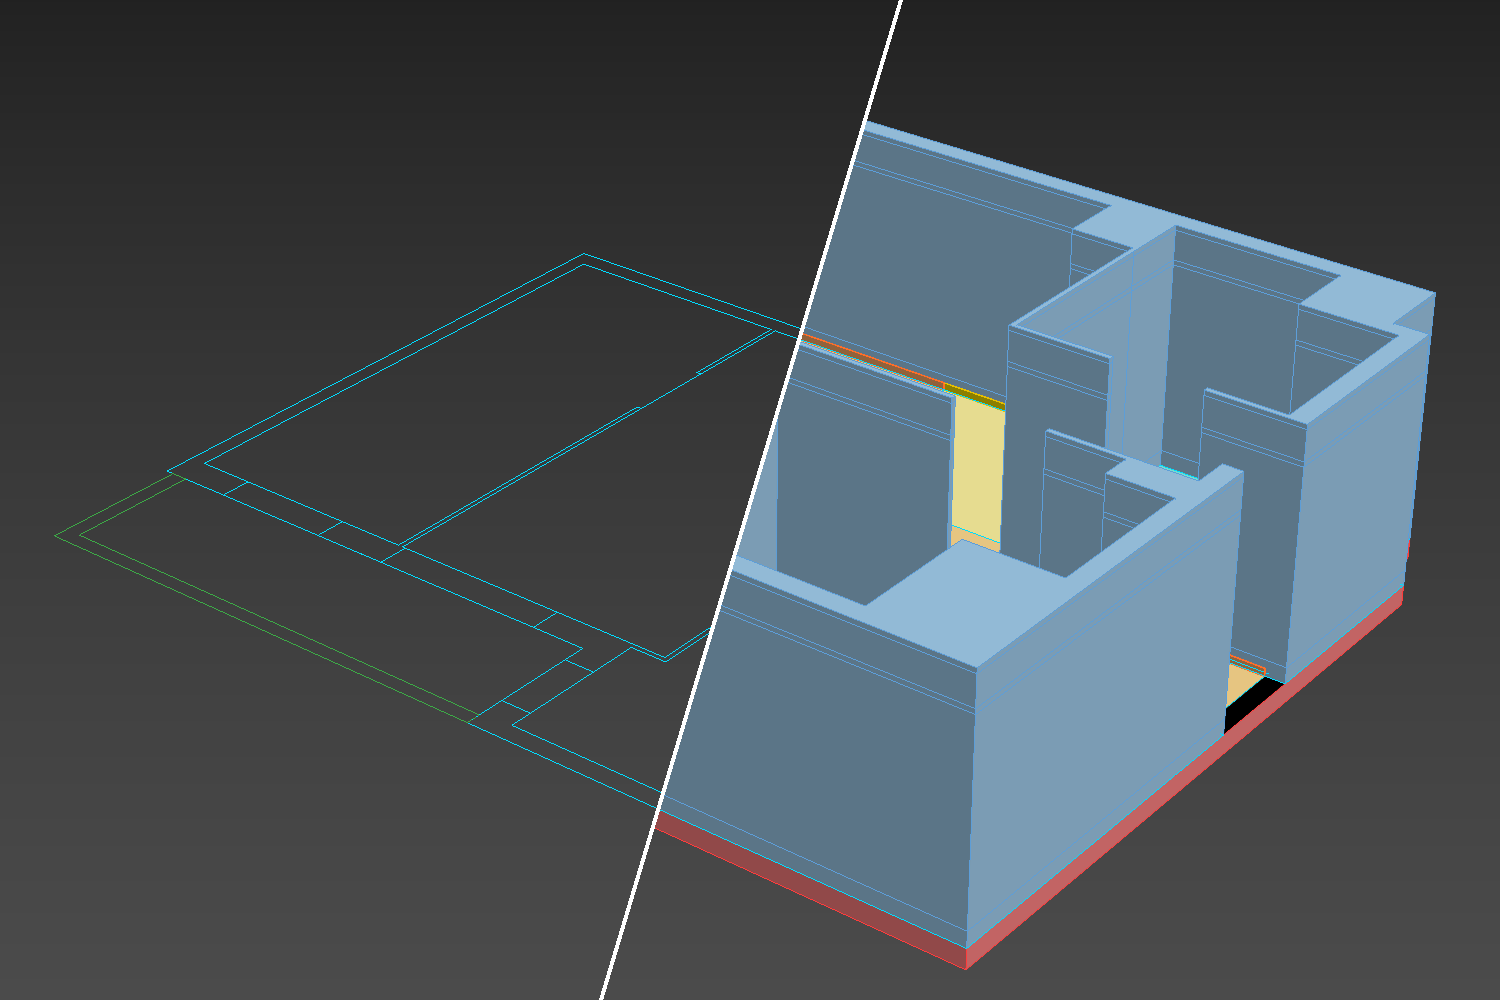
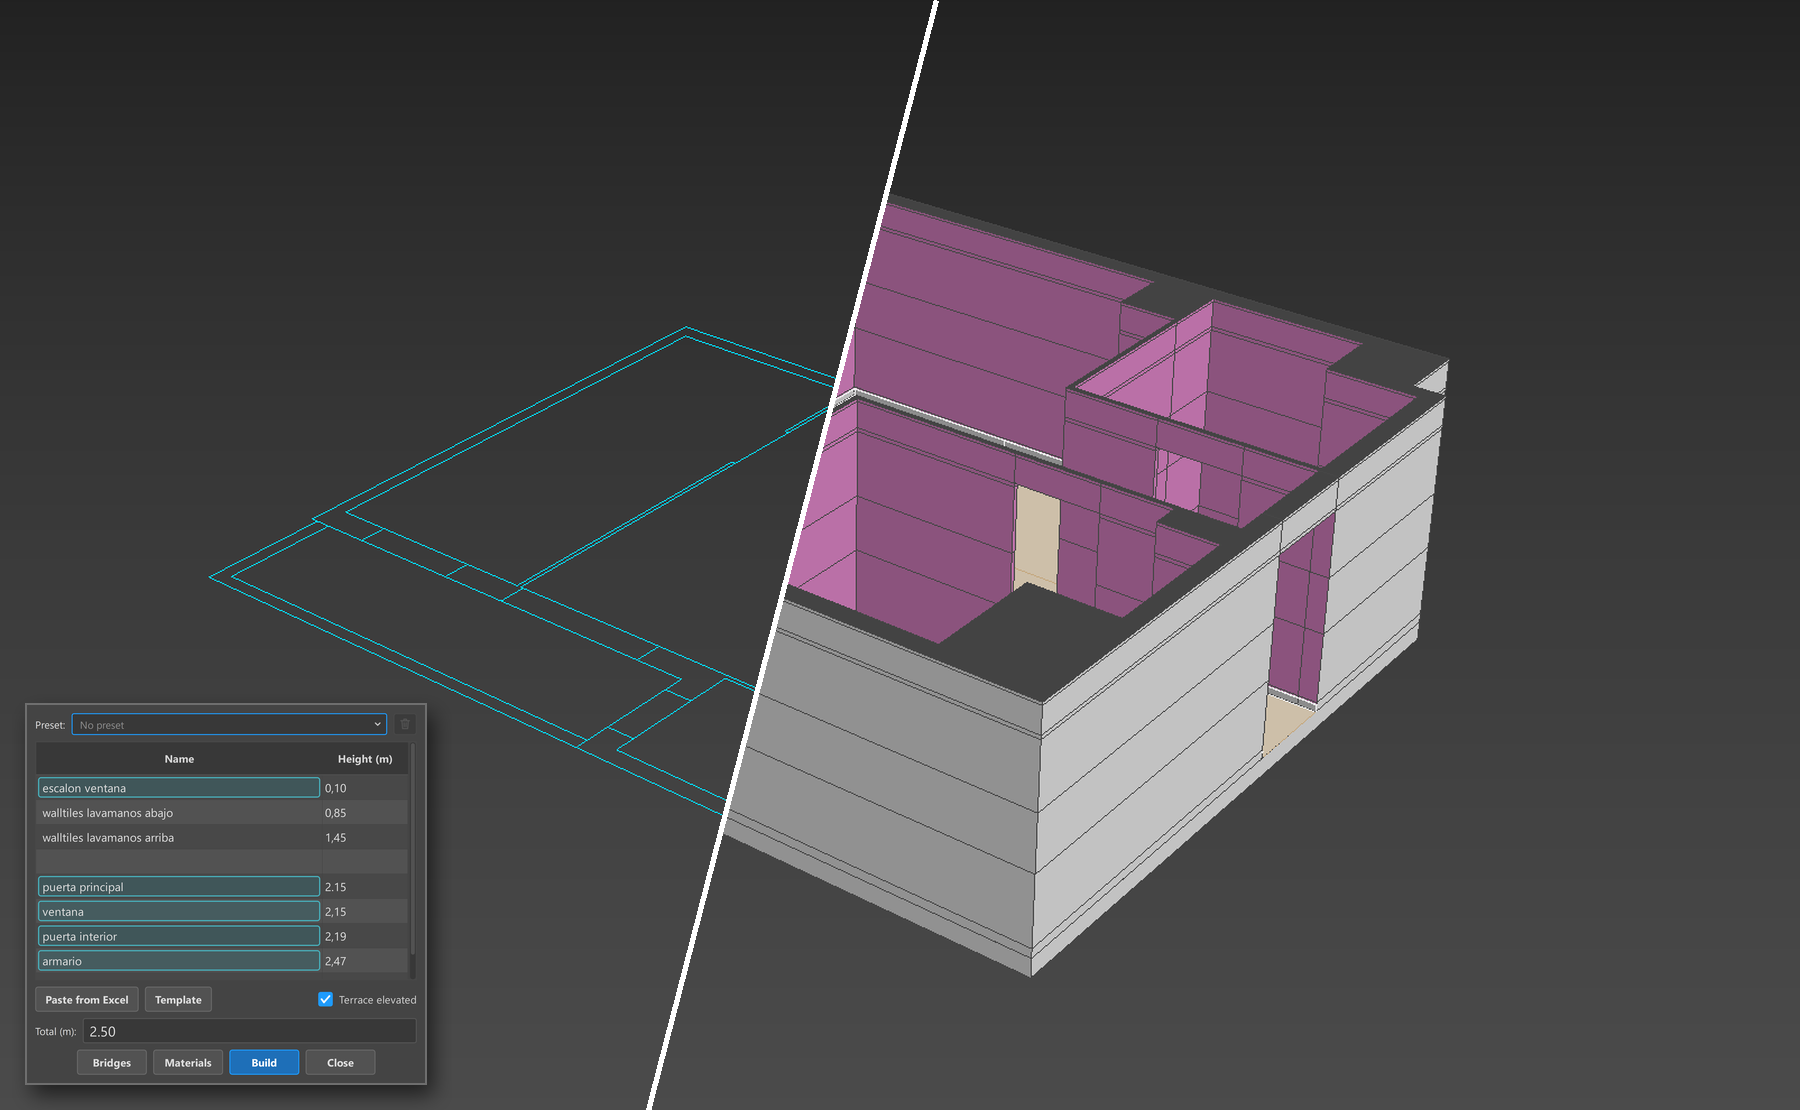
feat(portfolio): Shell Builder con BuildFlat V2 (bridges y materiales) y su ventana

diff --git a/js/data.js b/js/data.js
@@ -49,7 +49,7 @@ window.PORTFOLIO = {
         featuresTitle: "Step by step.",
         features: [
           { title: "PDF to splines (AI)", text: "An AI skill drives 3ds Max through MCP: it reads the PDF plan and draws walls, floors and ceiling as named splines. In early production use.", media: "img/fp3d-pdf-corner.png", ratio: "1123 / 976" },
-          { title: "Shell Builder", text: "Extrudes the walls in height segments and builds the ceiling, floors and terrace borders from the splines.", media: "img/fp3d-shell-builder.png", ratio: "1500 / 1000" },
+          { title: "Shell Builder", text: "Extrudes the walls in height segments and builds the ceiling, floors and terrace borders from the splines.", media: "img/fp3d-shell-builder.png", ratio: "1800 / 1110" },
           { title: "Door & Window Generator", text: "Places, orients and instances doors, windows and curtains, and fits their geometry to each opening.", media: "img/dwg-ui.png", ratio: "322 / 262" },
           { title: "MultiMaterial Editor", text: "Sets up the scene's materials in one organized multimaterial before unwrapping.", media: "img/mme-upgraded-ui.png", ratio: "3000 / 2280" },
           { title: "UnwrapAll", text: "Unwraps UVs by object type, packs them with UV‑Packer and leaves the scene ready to bake. Duplex layouts included.", media: "img/fp3d-unwrapall.png", ratio: "1500 / 1000" },
